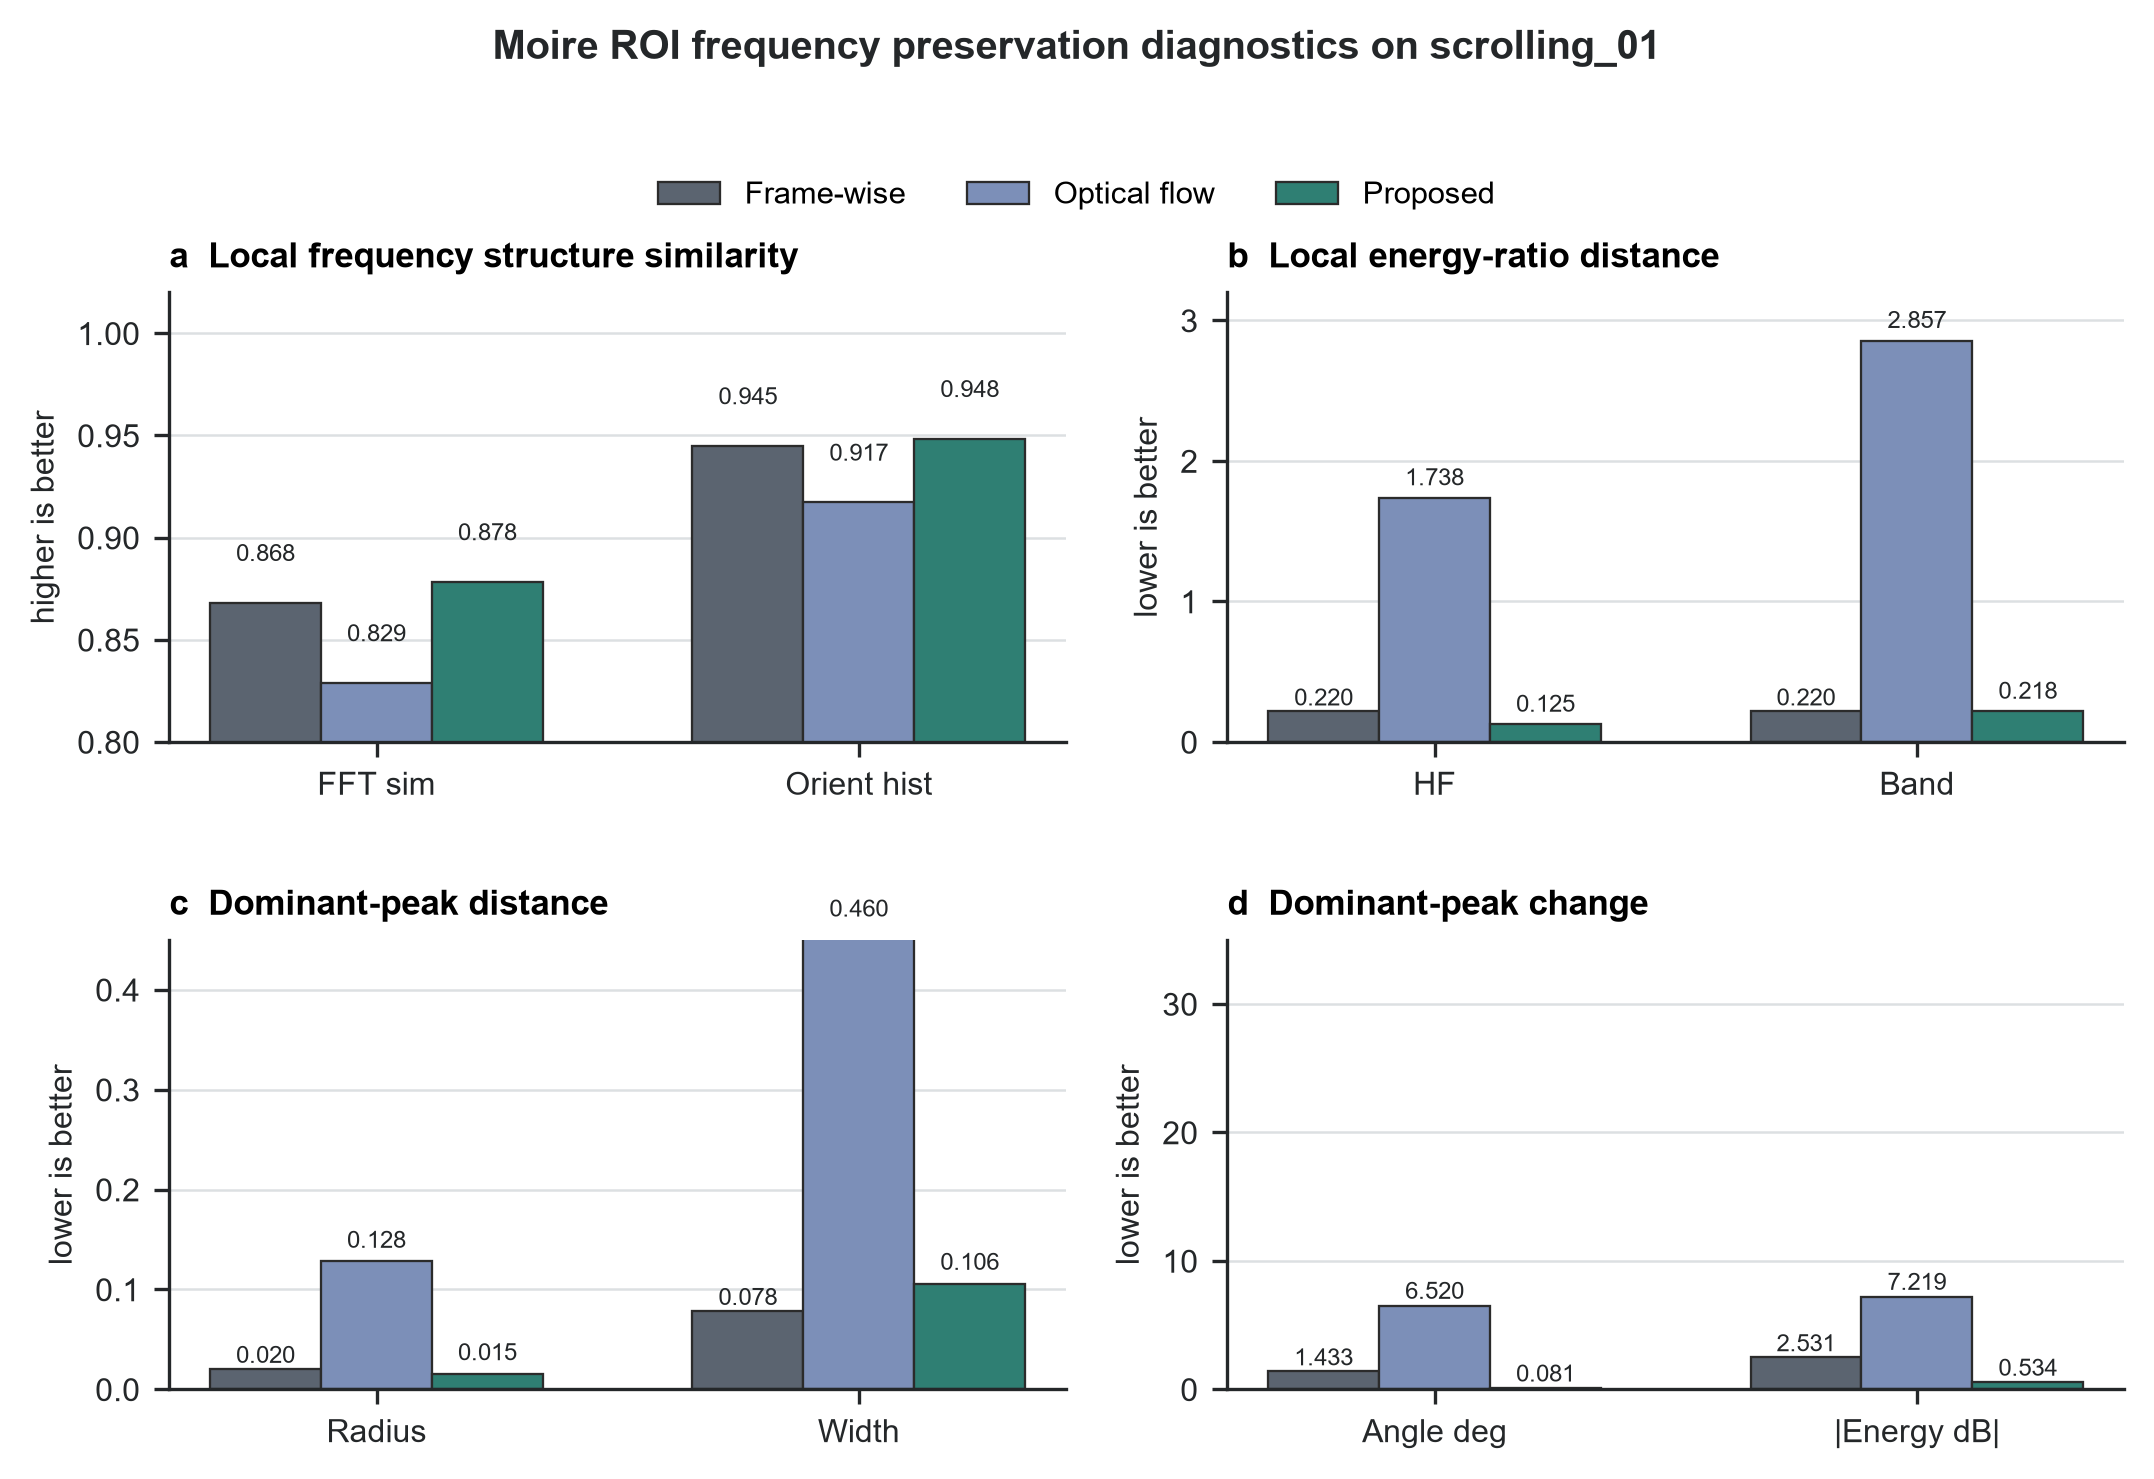
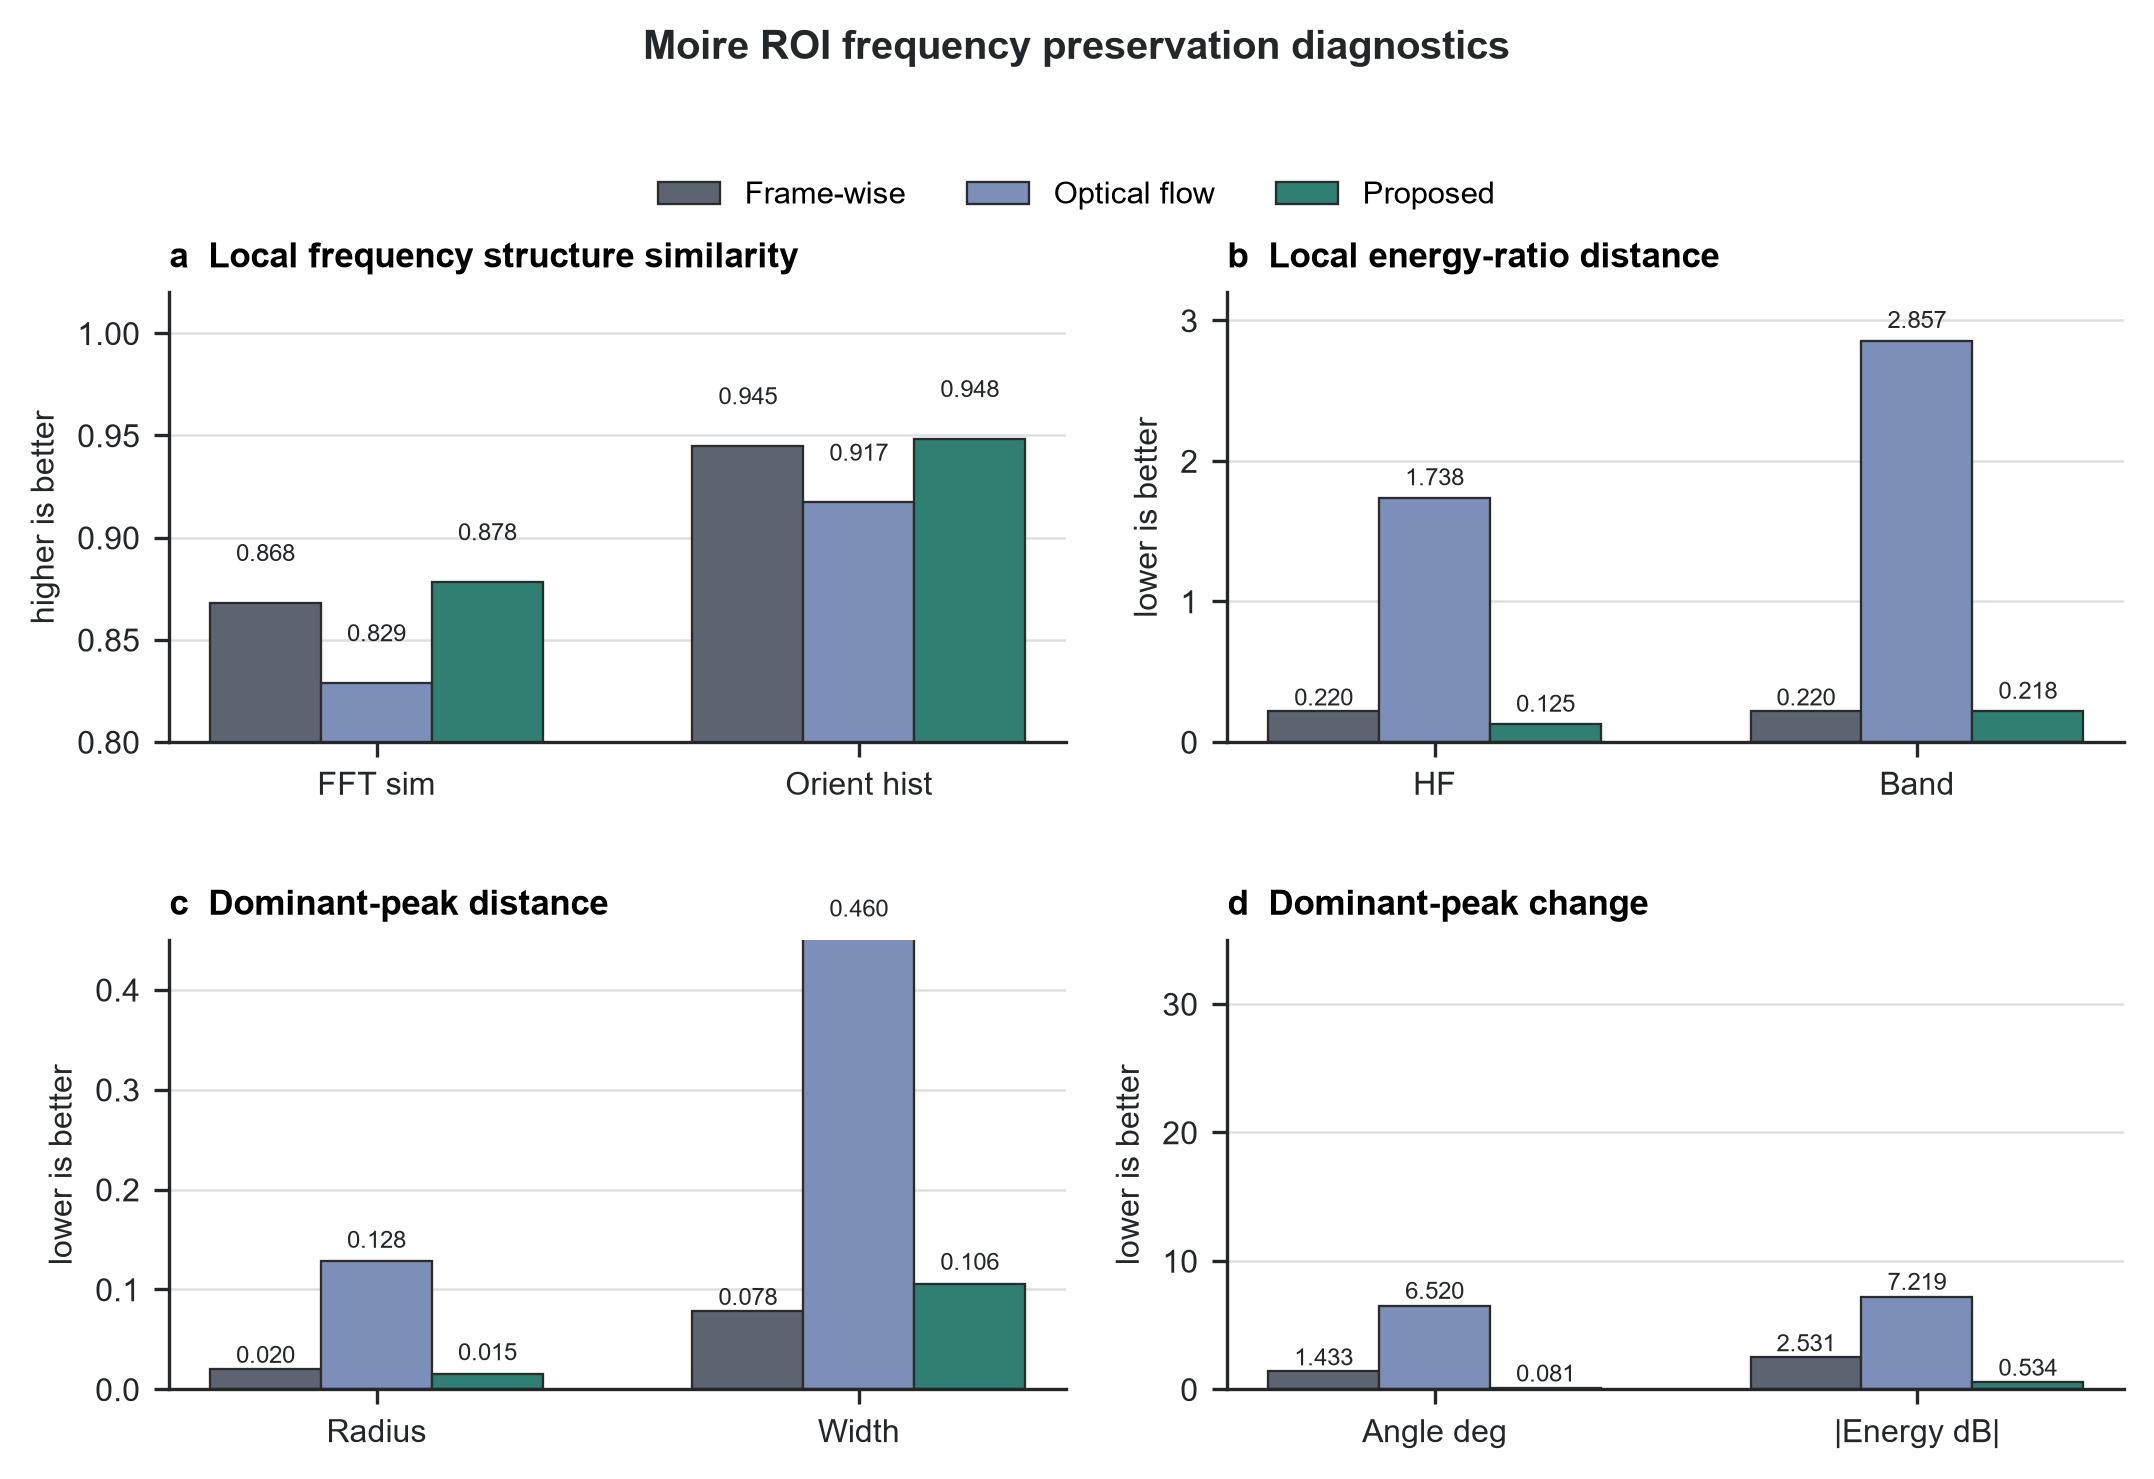
112

Changed region(s): [[0.2177, 0.0, 0.7465, 0.0622], [0.7465, 0.0, 0.7776, 0.0311]]

diff --git a/scripts/diagnostics/moire_roi_preservation_demo.py b/scripts/diagnostics/moire_roi_preservation_demo.py
@@ -341,7 +341,7 @@ def build_figure(summary_rows: list[dict[str, Any]], output: Path, dpi: int) -> 
     handles, labels = axes[0, 0].get_legend_handles_labels()
     fig.legend(handles, labels, loc="upper center", ncol=3, frameon=False, bbox_to_anchor=(0.5, 0.90))
     fig.suptitle(
-        "Moire ROI frequency preservation diagnostics on scrolling_01",
+        "Moire ROI frequency preservation diagnostics",
         fontsize=9.6,
         fontweight="bold",
         color=TEXT,

diff --git a/doc/current/paper/manuscript/paper_zh_v3.md b/doc/current/paper/manuscript/paper_zh_v3.md
@@ -68,7 +68,7 @@ $$
 
 候选四边形首先接受绝对形状检查：面积应占整帧的 20% 至 85%，宽高比在 1.25 至 2.35 之间，且四边形保持凸性；随后检查相对上一帧的变化，要求各边长度变化不超过 10%、面积变化不超过 20%。边框候选通过时直接接受，否则调用自动重检测；重检测仍需满足形状约束，但边长和面积变化阈值放宽到 15% 和 30%。若两者均失败，当前帧沿用上一帧四边形并记录未接受更新。当前配置不对这些帧额外插值，完整轨迹统一经过 5 帧中心 median 和 9 帧中心 mean 滤波，以抑制孤立跳点和逐帧边缘噪声。
 
-LK/RANSAC 与边框检测的融合采用“边框决策、LK 诊断”的顺序，而不是对两种四边形做加权平均。具体来说，系统先用上一帧四边形预测当前搜索带，并由局部边框观测产生候选四边形；候选只有通过边置信度、形状和帧间几何变化门控后才进入 LK 检查。随后，LK/RANSAC 只估计屏幕内部特征从上一帧到当前帧的运动，并把该运动投影得到的四角与边框候选四角比较。如果两者一致，当前帧记录为普通 `edge_accept`；如果内部运动与边框结果分歧较大，但边框候选本身已经通过几何门控，则仍接受边框四边形，并把状态记录为 `edge_accept_lk_conflict`。因此，LK 的作用是暴露“内部内容在动、物理屏幕不按同一模型运动”的冲突，而不是修正或替代物理边框检测。
+LK/RANSAC 与边框检测的融合采用“边框决策、LK 诊断”的顺序，而不是对两种四边形做加权平均。具体来说，系统先用上一帧四边形预测当前搜索带，并由局部边框观测产生候选四边形；候选只有通过边置信度、形状和帧间几何变化门控后才进入 LK 检查。随后，LK/RANSAC 只估计屏幕内部特该机制将内部内容运动与物理屏幕运动进行显式区分，从而避免内部特征运动被错误地解释为屏幕平面运动。
 
 为诊断内部内容运动，系统在上一帧屏幕内部选取 Shi–Tomasi 特征，经金字塔 LK 和 RANSAC 得到内部运动单应矩阵 $H_t^{\mathrm{LK}}$。将上一帧四角投影到当前帧后，与边框候选四角计算平均分歧：
 
@@ -156,24 +156,20 @@ Proposed 在评估片段上取得较低的片段级中位误差（图 4）。其
 
 ![图 5. 代表性输入帧和归一化输出。每行对应一种拍摄条件；四列分别为输入标注、逐帧输出、相邻帧光流输出和 Proposed 输出。](figures/figure_05_qualitative.png)
 
-## 4.3 不同运动速度下的误差分析
-
-<!-- 待补充：明确运动速度的定义与分组方式，建议使用屏幕四角平均位移（px/frame）或按屏幕对角线归一化后的速度；报告不同速度区间下的角点 RMSE、四边形 IoU 和轨迹平移变化，并加入误差随速度变化的结果图。 -->
-
 ## 4.4 消融与机制分析
 
-为避免把历史诊断项混入主实验，消融只保留当前项目实现中与方法主张直接相关的可切换模块（表 4）。实验在代表性滚动片段上使用相同初始化、输出画布和指标代码。表中依次检验轨迹滤波、LK 一致性诊断、物理边框证据和边框观测方式。
+为避免将早期调试阶段使用的历史诊断项混入正式实验，本文的消融实验仅保留当前方法中与核心设计主张直接相关、且能够独立关闭或替换的模块，包括轨迹滤波、LK/RANSAC 一致性诊断、物理边框证据以及边框观测方式。所有变体均在同一代表性滚动视频片段上进行测试，并采用完全相同的初始化状态、输出画布、透视变换设置和指标计算代码，以尽量排除数据、参数和后处理差异带来的影响。实验结果如表 4 所示。
 
 | 变体 | 模块设置 | 角点 RMSE，px ↓ | IoU ↑ | 平移变化，px/frame ↓ |
 |---|---|---:|---:|---:|
 | Proposed，profile 边框 | 当前完整链路：profile 边框观测 + LK 诊断 | 3.253 | 0.996038 | 0.752 |
 | 去掉轨迹滤波 | median/trajectory window 设为 1 | 2.932 | 0.996585 | 1.430 |
-| 去掉 LK 一致性诊断 | 边框仍决定四边形，关闭内部运动检查 | 3.253 | 0.996038 | 0.752 |
+| 去掉 LK 一致性诊断 | 边框仍决定四边形，关闭内部运动检查 | 3.253 | 0.994323 | 0.972 |
 | 去掉物理边框证据 | 仅用相邻帧光流传播上一四边形 | 76.114 | 0.916022 | 2.205 |
 | LSD 边框观测 | 用 LSD 线段检测替换 profile 观测 | 3.604 | 0.995716 | 0.961 |
 | Hough 边框观测 | 用 Hough 直线检测替换 profile 观测 | 27.335 | 0.974200 | 0.897 |
 
-这个消融支持三个判断。第一，轨迹滤波主要改善时间稳定性，而不是单帧几何中位数；关闭滤波后 RMSE 从 3.253 px 降至 2.932 px，但帧间平移变化从 0.752 px/frame 升至 1.430 px/frame。第二，LK/RANSAC 在当前方法中不是主要几何驱动；关闭 LK 诊断后结果不变，说明该片段的四边形由边框证据确定。第三，物理边框线索是决定性模块；去掉边框后，相邻帧光流会跟随连贯滚动内容，角点 RMSE 升至 76.114 px。边框观测方式的替换进一步说明 profile 采样是更稳妥的默认选择：LSD 结果接近但略差，Hough 在该片段上产生明显几何退化。
+这个消融支持三个判断。第一，轨迹滤波主要改善时间稳定性，而不是单帧几何中位数；关闭滤波后 RMSE 从 3.253 px 降至 2.932 px，但帧间平移变化从 0.752 px/frame 升至 1.430 px/frame。第二，LK/RANSAC 在当前方法中不是主要几何驱动；关闭 LK 诊断结果略微提升，证明LK诊断在部分镜头快速移动的情况下有优化作用。第三，物理边框线索是决定性模块；去掉边框后，相邻帧光流会跟随连贯滚动内容，角点 RMSE 升至 76.114 px。边框观测方式的替换进一步说明 profile 采样是更稳妥的默认选择：LSD 结果接近但略差，Hough 在该片段上产生明显几何退化。
 
 该消融是针对代表性滚动片段的机制诊断，而不是跨场景总体消融。由于该片段的 profile 边框在各帧中持续有效，关闭 LK 诊断不改变几何结果只能证明 LK 不主导该片段的单应矩阵，不能单独证明其冲突检测准确性。本文只将门控、重检测和保持回退解释为当前实现中的保护机制，不把它们作为已被实验单独证明有效的贡献。
 
@@ -206,7 +202,10 @@ $$
 
 最后比较 $\widehat{\mathbf f}_t^{\mathrm{track}}$ 与实际追踪频谱峰的位置、方向、能量和峰宽，并记录是否出现额外显著峰。该诊断当前作为验证设计算法说明，实际实现阶段将以带明显摩尔纹的静止、平移、旋转、远近变化、轻微抖动和透视变化片段生成对应结果。
 
-![图 6. 信号保留诊断设计。每帧同时输入原始目标区域、追踪输出和几何变换参数；算法用几何变换补偿频谱峰的旋转与尺度变化，再比较主频、方向、能量、峰宽和新峰。该诊断衡量追踪管线对拍屏摩尔纹结构的影响，不衡量去摩尔纹效果。](figures/figure_06_signal_preservation.png)
+![图 6. 信号保留诊断设计。每帧同时输入原始目标区域、追踪输出和几何变换参数；算法用几何变换补偿频谱峰的旋转与尺度变化，再比较主频、方向、能量、峰宽和新峰。该诊断衡量追踪管线对拍屏摩尔纹结构的影响，不衡量去摩尔纹效果。](figures/figure_06b_moire_roi_preservation.png)
+
+实验结果表明，所提出方法在完成几何校正和时序稳定后，仍能较好保持摩尔纹的局部频率结构。其局部 FFT 相似度达到 0.878，方向直方图相似度为 0.948，主峰半径变化仅为 0.015，整体优于纯光流传播，说明边框约束能够减少滚动内容引起的频谱错位。相比逐帧方法，所提出方法虽然在峰宽指标上略低，但在主峰方向、能量及整体频谱一致性上更均衡，表明追踪输出仍适合后续摩尔纹分析与处理。
+
 
 # 5. 结论
 
